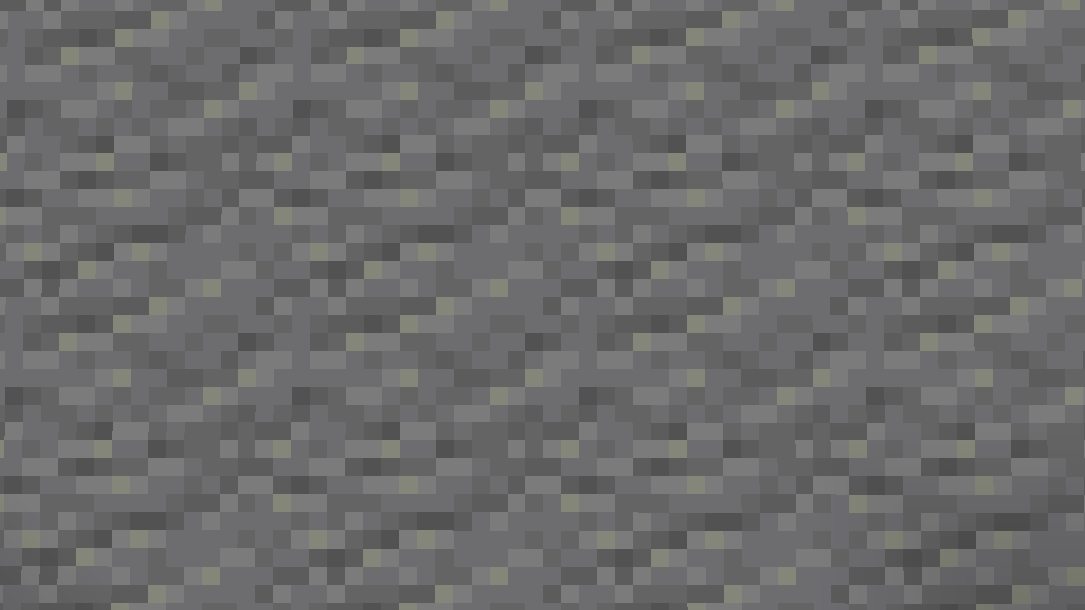
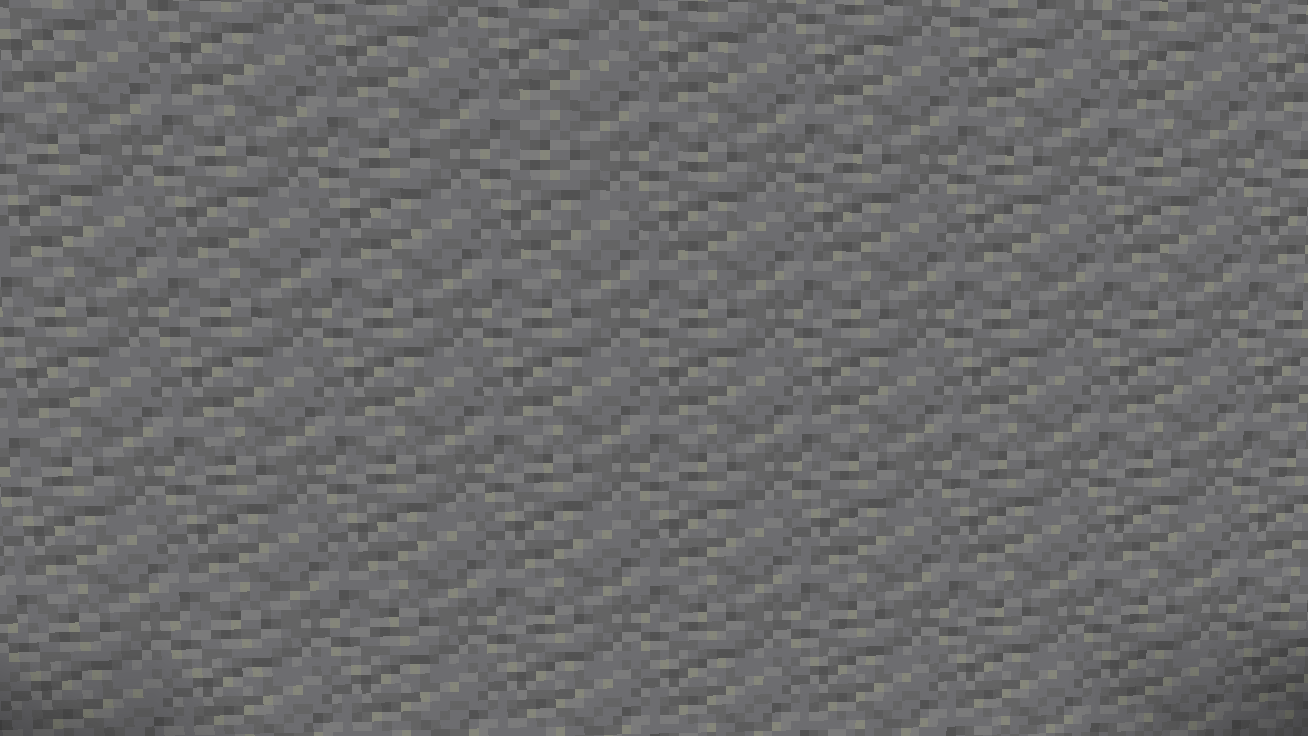
Made it all work for Mercury as well. Thanks Minecraft Andesite

diff --git a/explore/explore.py b/explore/explore.py
@@ -31,8 +31,8 @@ planet = {
         Not too hot, or too cold!""",
         
         "temperatureText": """Nice and mild.
-        The highest temperature on Earth recordeed was 57.2C, 
-        and the lowest temperature recorder was -89.2C.
+        The highest temperature on Earth recordeed was 57.2°C, 
+        and the lowest temperature recorder was -89.2°C.
         Compared to other planets, this is very mild, 
         and part of why Earth is said to be in the 
         "Goldilocks zone" of the solar system.
@@ -44,11 +44,41 @@ planet = {
         about its axis. And a year is the amount of time that it takes for a 
         planet to rotate around the sun. A year is actually 365.24 days long.
         That's why we have leap years,so that the calendar can catch up again."""},
-    "Mercury" : {"Name": "Earth", "featherSpeed" : 133, "hammerSpeed" : 133, "maxTemp" : 420, "minTemp": -170, "dayLength": 176 * 24}
+    "Mercury" : {"Name": "Mercury", "featherSpeed" : 133, "hammerSpeed" : 133, "maxTemp" : 420, "minTemp": -170, "dayLength": 176 * 24,
+                 "skyText" : """Ah. It's a bit big, innit?
+                 Mercury's too small to have anything around it, being less than 
+                 1.5x the size of our moon.
+                 You'll notice the sky is still black, even with the Sun out.
+                 That's because Mercury basically has no atmosphere, so there 
+                 is no air to scatter the light and make a sky.""",
+                 
+                 "gravityText": """Here, the gravity is a lot weaker at about 3.7 m/s^2
+                 so both of the objects fall slower. However, Mercury has almost no
+                 atmosphere, so there is no air resistance to slow down the feather.
+                 That means they fall together, and slowly.""",
+                  
+                 "temperatureText": """Mercury's temperatures vary massively, because
+                 it's so close to the Sun, It can heat up 420°C during its long days.
+                 But because it has no atmosphere to hold heat in,
+                 the temperature can plummet to -170°C when its out of the sun.
+                 It's like an extreme version of the deserts on Earth.""",
+                 
+                 "dayText" : """Mercury's days are extremely long. In fact, 
+                 they are longer than a year on Mercury!
+                 A Mercury day takes 176 Earth days to complete.
+                 A year on Mercury is only 88 days, so a day on Mercury takes
+                 nearly twice as long!
+                 
+                 Also, Mercury has a very elliptical orbit, meaning it orbits in
+                 an oval around the Sun.
+                 This means that when Mercury is close to the Sun, 
+                 it can actually stop or move slighly backward across the sky ,like how 
+                 noon went on for extra long."""
+                 }
 }# this name thing is dumb, but i only pass the inner dictionary in and I need the name there
 
 #TODO, change this to read from a file or something
-chosenPlanet = planet["Earth"]
+chosenPlanet = planet["Mercury"]
 
 pygame.init()
 screen_size = (1280,720)

diff --git a/explore/sprites.py b/explore/sprites.py
@@ -1,11 +1,13 @@
 import pygame
 
+screen_size = (1280,720)
+
 ###Returns the Surface object list and the associated Rect list  
 def makeMultilineText(text, font):
     textRender = font.render(text, True, (255,255,255), (0,0,0,0.3))
     textRect = textRender.get_rect()
     textRect.x= 30
-    textRect.y = 50
+    textRect.y = screen_size[1]/2
     lines = text.split("\n")
     line_height = textRect.height
     lineRenders = [] 
@@ -84,7 +86,7 @@ class Telescope (Interactable):
             return False
         self.interacted = True  
         
-        screen_size = (1280,720)
+
         clock = pygame.time.Clock()
         running = True
         timePassed = 0
@@ -432,8 +434,12 @@ class Clock(Interactable):
         timerRect.y = screen_size[1] * 7/8
         
         #the time, in seconds, before the different day stages repeat
-        repeatTime = 20
+        if self.planet["Name"] == "Mercury":
+            repeatTime = 25
+        else:
+            repeatTime = 20
         dayComplete = False
+        noon
         
         while running:
             # poll for events
@@ -449,7 +455,7 @@ class Clock(Interactable):
                 self.screen.blit(midnight, (0,0))
             elif timePassed % repeatTime < 10:
                 self.screen.blit(dawn, (0,0))
-            elif timePassed % repeatTime < 15:
+            elif timePassed % repeatTime < repeatTime -5:
                 self.screen.blit(noon, (0,0))
             else:
                 self.screen.blit(dusk, (0,0))
@@ -459,8 +465,8 @@ class Clock(Interactable):
             if time > dayLength: 
                 time = dayLength
                 dayComplete = True
-            if time >= timeChunk + dayLength /4:
-                timeChunk += dayLength /4
+            if time >= timeChunk + dayLength /(repeatTime / 5): # This just avoids having to have extra if statements for my mercury joke
+                timeChunk += dayLength /(repeatTime /5)
                 
 
             

diff --git a/README.md b/README.md
@@ -12,5 +12,7 @@ Hammer from: <a href="https://www.vecteezy.com/vector-art/24212734-pixel-art-ham
 Horizon from: https://www.wallpaperflare.com/horizon-digital-art-pixels-pixel-art-wallpaper-ureif/download/2560x1080
 Feather from minecraft,
 clock from minecraft
+Mercury ground texture comes from andesite texture.
 thermometer from: https://pixelartmaker.com/art/c45de78f5f3de87
 pixel art: https://pixelartmaker.com/art/ff79920c15f08cd
+Close up sun from: https://pixelartmaker.com/art/67c5bb4f1a79b43
